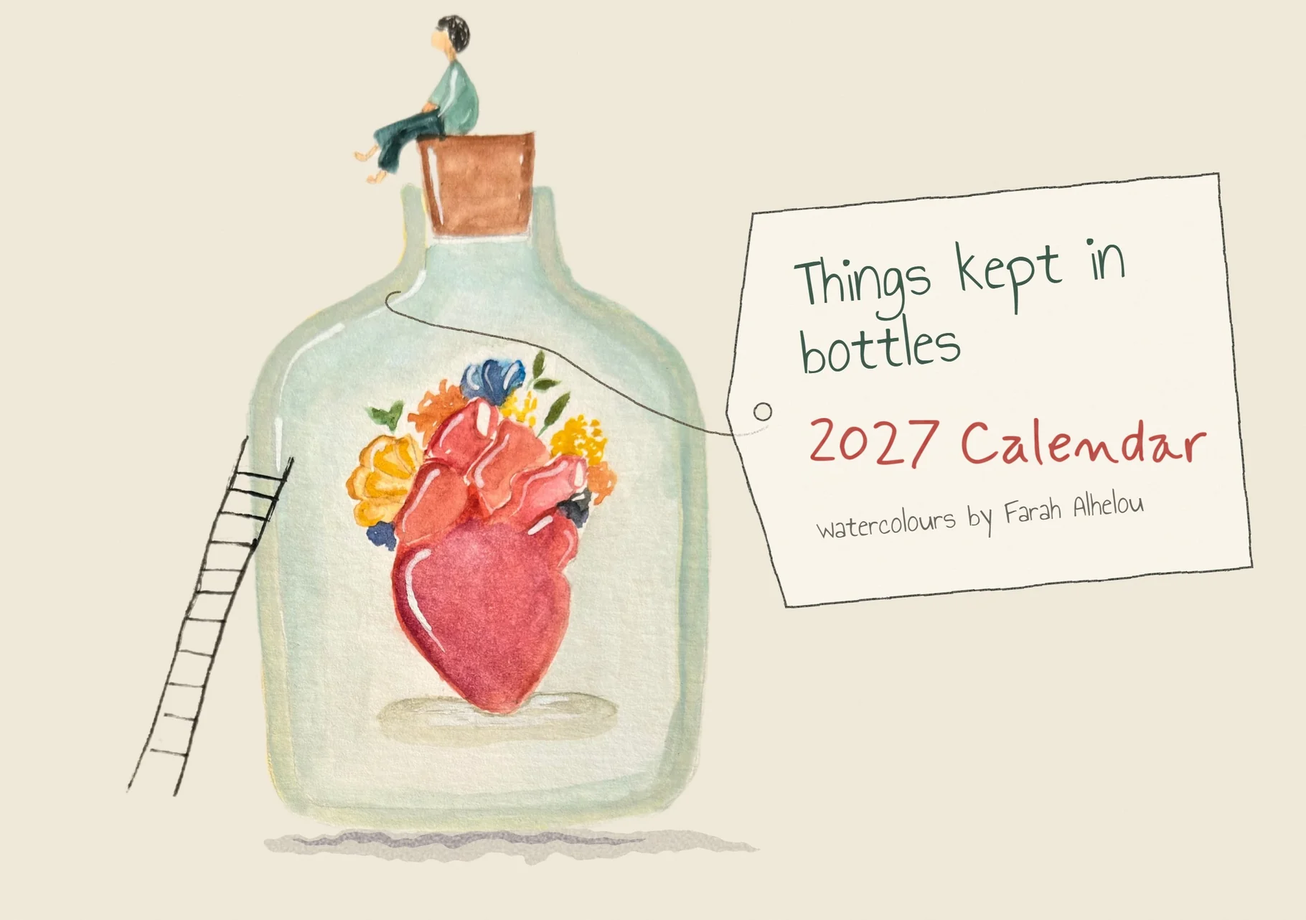
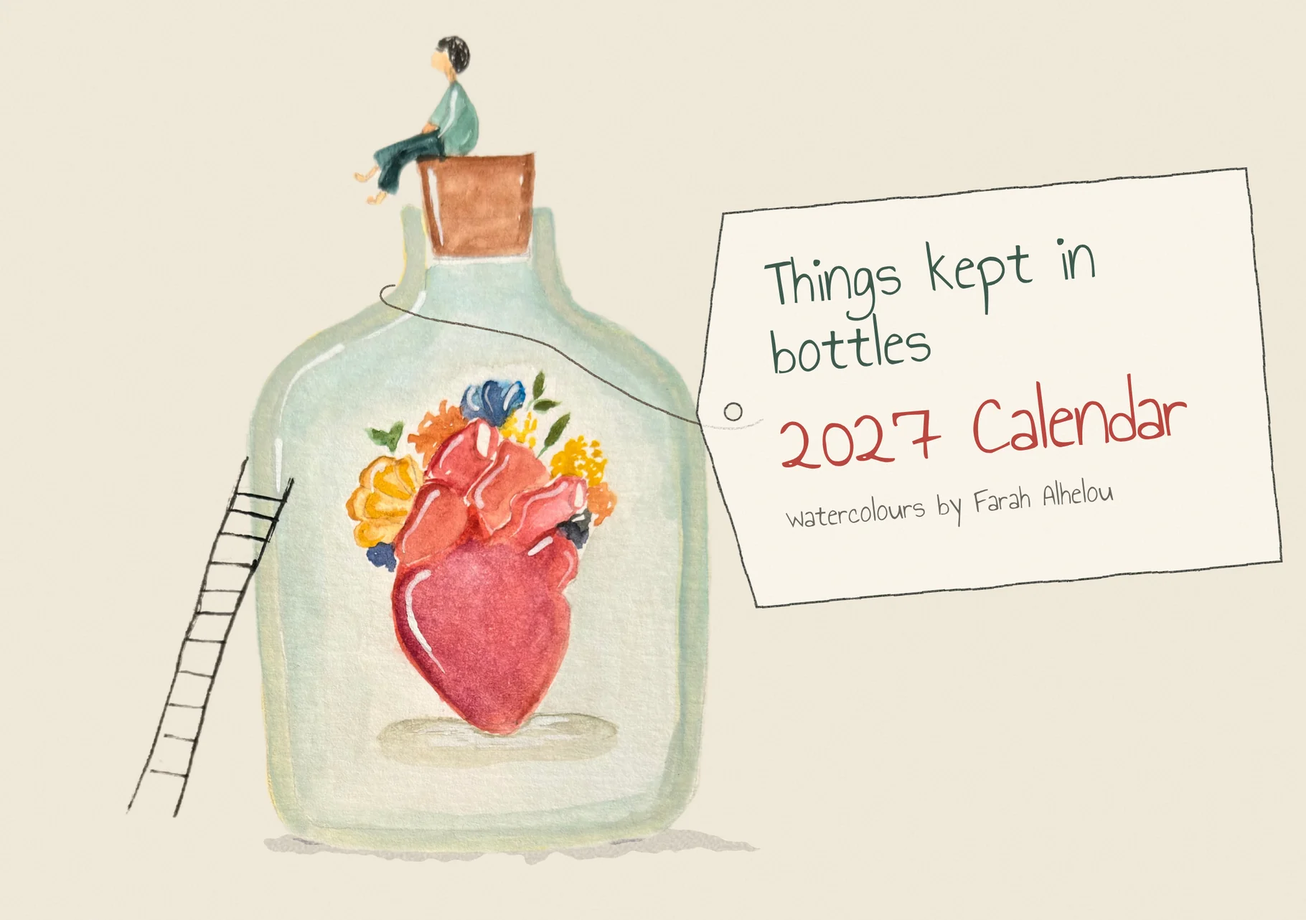
Calendar: all twelve months from the owner's calendar, cover reads 2027 Calendar; site full width
Claude-Session: https://claude.ai/code/session_011WuUMkvb8t9MEEabS5wD9n

diff --git a/web/assets/js/catalog.js b/web/assets/js/catalog.js
@@ -69,7 +69,7 @@ window.MG_DEFAULT = {
     ['sticker', 'pflower', 'Big Flower', 'الزهرة الكبيرة', 'round'],
     ['sticker', 'pmoonsleep', 'Moon Sleeper', 'نائمة على القمر', 'round']
   ].map(function (x) { return { kind: x[0], id: x[1], title_en: x[2], title_ar: x[3], extra: x[4] ? { shape: x[4] } : {} }; }),
-  /* the 2027 calendar, "Things kept in bottles": the pages Farah has finished (add a month once its PDF is in assets as c27-MM) */
+  /* the 2027 calendar, "Things kept in bottles": the cover and all twelve months (assets c27-MM*, rendered from the owner's calendar artifact) */
   calendar: {
     id: 'calendar-2027', title: ['Things kept in bottles, 2027', 'أشياء نحفظها في قوارير، 2027'],
     months: ['January', 'February', 'March', 'April', 'May', 'June', 'July', 'August', 'September', 'October', 'November', 'December'],
@@ -77,12 +77,28 @@ window.MG_DEFAULT = {
     pages: [
       { k: 'c27-00', m: 0, n: ['The cover', 'الغلاف'], s: ['2027', '2027'], q: ['Things kept in bottles, watercolours by Farah Al-Helou.', 'أشياء نحفظها في قوارير، ألوان مائية لفرح الحلو.'],
         d: ['A heart kept in a bottle, flowers growing from it, and someone sitting on the cork to keep watch.', 'قلب محفوظ في قارورة تنبت منه الأزهار، وعلى الفلّينة من يجلس ليحرسه.'] },
+      { k: 'c27-01', m: 1, n: ['January', 'كانون الثاني'], s: ['Winter 2027', 'شتاء 2027'], q: ['Some lights are only found by those who reach.', 'بعض الأضواء لا يجدها إلا من يمدّ يده إليها.'],
+        d: ['A girl in a red coat reaches up to a single star inside a bottle full of night.', 'فتاة بمعطف أحمر تمدّ يدها إلى نجمة واحدة داخل قارورة من ليل.'] },
+      { k: 'c27-02', m: 2, n: ['February', 'شباط'], s: ['Winter 2027', 'شتاء 2027'], q: ['Everything that grows begins somewhere unseen.', 'كل ما ينمو يبدأ في مكانٍ لا يُرى.'],
+        d: ['A heart made of roots in a round bottle, and a small tree in blossom growing out of it.', 'قلب من جذور في قارورة مستديرة، تنبت منه شجرة صغيرة مزهرة.'] },
+      { k: 'c27-03', m: 3, n: ['March', 'آذار'], s: ['Spring 2027', 'ربيع 2027'], q: ['Slowness is also a way of arriving.', 'البطء أيضًا طريقة للوصول.'],
+        d: ['A snail with a spiral shell carries a single red flower up through a green bottle.', 'حلزون بصدفة لولبية يحمل زهرة حمراء واحدة في قارورة خضراء.'] },
+      { k: 'c27-04', m: 4, n: ['April', 'نيسان'], s: ['Spring 2027', 'ربيع 2027'], q: ['What we tend in silence learns to bloom.', 'ما نرعاه بصمت يتعلّم أن يزهر.'],
+        d: ['A small garden of spring flowers kept in a bottle, with a paper tag tied to its neck.', 'حديقة صغيرة من أزهار الربيع في قارورة، وعلى عنقها بطاقة ورقية.'] },
       { k: 'c27-05', m: 5, n: ['May', 'أيار'], s: ['Spring 2027', 'ربيع 2027'], q: ['We carry whole worlds no one else can see.', 'نحمل عوالم كاملة لا يراها أحد سوانا.'],
         d: ['A girl sits on a small green planet inside a bottle of night, with the stars only she can see.', 'فتاة تجلس على كوكب أخضر صغير داخل قارورة من ليل، ومعها نجوم لا يراها سواها.'] },
+      { k: 'c27-06', m: 6, n: ['June', 'حزيران'], s: ['Summer 2027', 'صيف 2027'], q: ['Keep a little light for the days that forget.', 'احتفظوا بقليل من الضوء للأيام التي تنسى.'],
+        d: ['A smiling sun kept in a yellow bottle, its light spilling over the paper.', 'شمس مبتسمة محفوظة في قارورة صفراء، ينسكب ضوؤها على الورق.'] },
+      { k: 'c27-07', m: 7, n: ['July', 'تموز'], s: ['Summer 2027', 'صيف 2027'], q: ['Home is not a place, it is what we carry.', 'البيت ليس مكانًا، بل ما نحمله معنا.'],
+        d: ['A whale swims inside the bottle with a small town of houses on its back.', 'حوت يسبح داخل القارورة وعلى ظهره بلدة صغيرة من البيوت.'] },
       { k: 'c27-08', m: 8, n: ['August', 'آب'], s: ['Summer 2027', 'صيف 2027'], q: ['To leave is also to believe in somewhere.', 'أن نرحل يعني أيضًا أن نؤمن بمكانٍ ما.'],
         d: ['A ship on a small sea inside the bottle, and a tree growing out of its neck toward a bird that has just left.', 'سفينة على بحر صغير داخل القارورة، وشجرة تنمو من عنقها نحو طائر غادر للتوّ.'] },
       { k: 'c27-09', m: 9, n: ['September', 'أيلول'], s: ['Autumn 2027', 'خريف 2027'], q: ['Even the sun bows; looking up is a choice.', 'حتى الشمس تنحني، والنظر إلى الأعلى اختيار.'],
         d: ['A sunflower hangs upside down from the cork; a boy with his school bag stands below and looks up at it.', 'زهرة شمس معلّقة بالمقلوب من الفلّينة، وتحتها ولد بحقيبته المدرسية ينظر إليها.'] },
+      { k: 'c27-10', m: 10, n: ['October', 'تشرين الأول'], s: ['Autumn 2027', 'خريف 2027'], q: ['Some words are kept, not sent.', 'بعض الكلمات تُحفظ ولا تُرسل.'],
+        d: ['A letter sealed in a bottle among autumn leaves, never posted.', 'رسالة مختومة في قارورة بين أوراق الخريف، لم تُرسل قط.'] },
+      { k: 'c27-11', m: 11, n: ['November', 'تشرين الثاني'], s: ['Autumn 2027', 'خريف 2027'], q: ['Rest is not stopping, it is gathering.', 'الراحة ليست توقفًا، بل جمعٌ للقوة.'],
+        d: ['A girl curled up inside a sea shell in a round green bottle, resting.', 'فتاة تستريح متكوّرة داخل صدفة بحرية في قارورة خضراء مستديرة.'] },
       { k: 'c27-12', m: 12, n: ['December', 'كانون الأول'], s: ['Winter 2027', 'شتاء 2027'], q: ['Every road we take is a way back to ourselves.', 'كل طريق نسلكه طريقُ عودةٍ إلى أنفسنا.'],
         d: ['A heart-shaped sun over a small house, and a yellow road that winds back to it through green hills.', 'شمس على شكل قلب فوق بيت صغير، وطريق أصفر يعود إليه بين التلال الخضراء.'] }
     ]

diff --git a/web/calendar.html b/web/calendar.html
@@ -19,10 +19,10 @@
 <link rel="preload" href="fonts/geist-mono-latin-500-normal.woff2" as="font" type="font/woff2" crossorigin>
 <link rel="stylesheet" href="fonts/all.css">
 <link rel="stylesheet" href="fonts/figtree.css">
-<link rel="stylesheet" href="assets/css/site.css?v=37d4566a">
-<link rel="stylesheet" href="assets/css/show.css?v=37d4566a">
-<link rel="stylesheet" href="assets/css/calendar.css?v=37d4566a">
-<script src="assets/js/boot.js?v=37d4566a"></script>
+<link rel="stylesheet" href="assets/css/site.css?v=a01789b7">
+<link rel="stylesheet" href="assets/css/show.css?v=a01789b7">
+<link rel="stylesheet" href="assets/css/calendar.css?v=a01789b7">
+<script src="assets/js/boot.js?v=a01789b7"></script>
 </head>
 <body>
 <a class="skip" href="#main" data-ar="انتقلوا إلى المحتوى">Skip to content</a>
@@ -121,11 +121,11 @@
   <div class="ft-z"><small data-ar="© 2026 ماس آند غراس، غزة، فلسطين">© 2026 Mass &amp; Grass, Gaza, Palestine</small><div class="soc" id="soc"></div></div>
 </footer>
 
-<script src="assets/js/catalog.js?v=37d4566a" defer></script>
-<script src="assets/js/art.js?v=37d4566a" defer></script>
-<script src="assets/js/core.js?v=37d4566a" defer></script>
-<script src="assets/js/mock.js?v=37d4566a" defer></script>
-<script src="assets/js/show.js?v=37d4566a" defer></script>
-<script src="assets/js/calendar.js?v=37d4566a" defer></script>
+<script src="assets/js/catalog.js?v=a01789b7" defer></script>
+<script src="assets/js/art.js?v=a01789b7" defer></script>
+<script src="assets/js/core.js?v=a01789b7" defer></script>
+<script src="assets/js/mock.js?v=a01789b7" defer></script>
+<script src="assets/js/show.js?v=a01789b7" defer></script>
+<script src="assets/js/calendar.js?v=a01789b7" defer></script>
 </body>
 </html>

diff --git a/web/shop.html b/web/shop.html
@@ -19,10 +19,10 @@
 <link rel="preload" href="fonts/geist-mono-latin-500-normal.woff2" as="font" type="font/woff2" crossorigin>
 <link rel="stylesheet" href="fonts/all.css">
 <link rel="stylesheet" href="fonts/figtree.css">
-<link rel="stylesheet" href="assets/css/site.css?v=37d4566a">
-<link rel="stylesheet" href="assets/css/tiles.css?v=37d4566a">
-<link rel="stylesheet" href="assets/css/shop.css?v=37d4566a">
-<script src="assets/js/boot.js?v=37d4566a"></script>
+<link rel="stylesheet" href="assets/css/site.css?v=a01789b7">
+<link rel="stylesheet" href="assets/css/tiles.css?v=a01789b7">
+<link rel="stylesheet" href="assets/css/shop.css?v=a01789b7">
+<script src="assets/js/boot.js?v=a01789b7"></script>
 </head>
 <body>
 <a class="skip" href="#main" data-ar="انتقلوا إلى المحتوى">Skip to content</a>
@@ -82,10 +82,10 @@
   <div class="ft-z"><small data-ar="© 2026 ماس آند غراس، غزة، فلسطين">© 2026 Mass &amp; Grass, Gaza, Palestine</small><div class="soc" id="soc"></div></div>
 </footer>
 
-<script src="assets/js/catalog.js?v=37d4566a" defer></script>
-<script src="assets/js/art.js?v=37d4566a" defer></script>
-<script src="assets/js/core.js?v=37d4566a" defer></script>
-<script src="assets/js/mock.js?v=37d4566a" defer></script>
-<script src="assets/js/shop.js?v=37d4566a" defer></script>
+<script src="assets/js/catalog.js?v=a01789b7" defer></script>
+<script src="assets/js/art.js?v=a01789b7" defer></script>
+<script src="assets/js/core.js?v=a01789b7" defer></script>
+<script src="assets/js/mock.js?v=a01789b7" defer></script>
+<script src="assets/js/shop.js?v=a01789b7" defer></script>
 </body>
 </html>

diff --git a/web/paintings.html b/web/paintings.html
@@ -19,9 +19,9 @@
 <link rel="preload" href="fonts/geist-mono-latin-500-normal.woff2" as="font" type="font/woff2" crossorigin>
 <link rel="stylesheet" href="fonts/all.css">
 <link rel="stylesheet" href="fonts/figtree.css">
-<link rel="stylesheet" href="assets/css/site.css?v=37d4566a">
-<link rel="stylesheet" href="assets/css/paintings.css?v=37d4566a">
-<script src="assets/js/boot.js?v=37d4566a"></script>
+<link rel="stylesheet" href="assets/css/site.css?v=a01789b7">
+<link rel="stylesheet" href="assets/css/paintings.css?v=a01789b7">
+<script src="assets/js/boot.js?v=a01789b7"></script>
 </head>
 <body>
 <a class="skip" href="#main" data-ar="انتقلوا إلى المحتوى">Skip to content</a>
@@ -103,10 +103,10 @@
   <div class="ft-z"><small data-ar="© 2026 ماس آند غراس، غزة، فلسطين">© 2026 Mass &amp; Grass, Gaza, Palestine</small><div class="soc" id="soc"></div></div>
 </footer>
 
-<script src="assets/js/catalog.js?v=37d4566a" defer></script>
-<script src="assets/js/art.js?v=37d4566a" defer></script>
-<script src="assets/js/core.js?v=37d4566a" defer></script>
-<script src="assets/js/mock.js?v=37d4566a" defer></script>
-<script src="assets/js/paintings.js?v=37d4566a" defer></script>
+<script src="assets/js/catalog.js?v=a01789b7" defer></script>
+<script src="assets/js/art.js?v=a01789b7" defer></script>
+<script src="assets/js/core.js?v=a01789b7" defer></script>
+<script src="assets/js/mock.js?v=a01789b7" defer></script>
+<script src="assets/js/paintings.js?v=a01789b7" defer></script>
 </body>
 </html>

diff --git a/web/postcards.html b/web/postcards.html
@@ -19,9 +19,9 @@
 <link rel="preload" href="fonts/geist-mono-latin-500-normal.woff2" as="font" type="font/woff2" crossorigin>
 <link rel="stylesheet" href="fonts/all.css">
 <link rel="stylesheet" href="fonts/figtree.css">
-<link rel="stylesheet" href="assets/css/site.css?v=37d4566a">
-<link rel="stylesheet" href="assets/css/postcards.css?v=37d4566a">
-<script src="assets/js/boot.js?v=37d4566a"></script>
+<link rel="stylesheet" href="assets/css/site.css?v=a01789b7">
+<link rel="stylesheet" href="assets/css/postcards.css?v=a01789b7">
+<script src="assets/js/boot.js?v=a01789b7"></script>
 </head>
 <body>
 <a class="skip" href="#main" data-ar="انتقلوا إلى المحتوى">Skip to content</a>
@@ -153,10 +153,10 @@
   <div class="ft-z"><small data-ar="© 2026 ماس آند غراس، غزة، فلسطين">© 2026 Mass &amp; Grass, Gaza, Palestine</small><div class="soc" id="soc"></div></div>
 </footer>
 
-<script src="assets/js/catalog.js?v=37d4566a" defer></script>
-<script src="assets/js/art.js?v=37d4566a" defer></script>
-<script src="assets/js/core.js?v=37d4566a" defer></script>
-<script src="assets/js/mock.js?v=37d4566a" defer></script>
-<script src="assets/js/postcards.js?v=37d4566a" defer></script>
+<script src="assets/js/catalog.js?v=a01789b7" defer></script>
+<script src="assets/js/art.js?v=a01789b7" defer></script>
+<script src="assets/js/core.js?v=a01789b7" defer></script>
+<script src="assets/js/mock.js?v=a01789b7" defer></script>
+<script src="assets/js/postcards.js?v=a01789b7" defer></script>
 </body>
 </html>

diff --git a/web/stickers.html b/web/stickers.html
@@ -19,9 +19,9 @@
 <link rel="preload" href="fonts/geist-mono-latin-500-normal.woff2" as="font" type="font/woff2" crossorigin>
 <link rel="stylesheet" href="fonts/all.css">
 <link rel="stylesheet" href="fonts/figtree.css">
-<link rel="stylesheet" href="assets/css/site.css?v=37d4566a">
-<link rel="stylesheet" href="assets/css/stickers.css?v=37d4566a">
-<script src="assets/js/boot.js?v=37d4566a"></script>
+<link rel="stylesheet" href="assets/css/site.css?v=a01789b7">
+<link rel="stylesheet" href="assets/css/stickers.css?v=a01789b7">
+<script src="assets/js/boot.js?v=a01789b7"></script>
 </head>
 <body>
 <a class="skip" href="#main" data-ar="انتقلوا إلى المحتوى">Skip to content</a>
@@ -109,10 +109,10 @@
   <div class="ft-z"><small data-ar="© 2026 ماس آند غراس، غزة، فلسطين">© 2026 Mass &amp; Grass, Gaza, Palestine</small><div class="soc" id="soc"></div></div>
 </footer>
 
-<script src="assets/js/catalog.js?v=37d4566a" defer></script>
-<script src="assets/js/art.js?v=37d4566a" defer></script>
-<script src="assets/js/core.js?v=37d4566a" defer></script>
-<script src="assets/js/mock.js?v=37d4566a" defer></script>
-<script src="assets/js/stickers.js?v=37d4566a" defer></script>
+<script src="assets/js/catalog.js?v=a01789b7" defer></script>
+<script src="assets/js/art.js?v=a01789b7" defer></script>
+<script src="assets/js/core.js?v=a01789b7" defer></script>
+<script src="assets/js/mock.js?v=a01789b7" defer></script>
+<script src="assets/js/stickers.js?v=a01789b7" defer></script>
 </body>
 </html>

diff --git a/web/checkout.html b/web/checkout.html
@@ -20,9 +20,9 @@
 <link rel="preload" href="fonts/geist-mono-latin-500-normal.woff2" as="font" type="font/woff2" crossorigin>
 <link rel="stylesheet" href="fonts/all.css">
 <link rel="stylesheet" href="fonts/figtree.css">
-<link rel="stylesheet" href="assets/css/site.css?v=37d4566a">
-<link rel="stylesheet" href="assets/css/checkout.css?v=37d4566a">
-<script src="assets/js/boot.js?v=37d4566a"></script>
+<link rel="stylesheet" href="assets/css/site.css?v=a01789b7">
+<link rel="stylesheet" href="assets/css/checkout.css?v=a01789b7">
+<script src="assets/js/boot.js?v=a01789b7"></script>
 </head>
 <body>
 <a class="skip" href="#main" data-ar="انتقلوا إلى المحتوى">Skip to content</a>
@@ -81,10 +81,10 @@
   <div class="ft-z"><small data-ar="© 2026 ماس آند غراس، غزة، فلسطين">© 2026 Mass &amp; Grass, Gaza, Palestine</small><div class="soc" id="soc"></div></div>
 </footer>
 
-<script src="assets/js/catalog.js?v=37d4566a" defer></script>
-<script src="assets/js/art.js?v=37d4566a" defer></script>
-<script src="assets/js/core.js?v=37d4566a" defer></script>
-<script src="assets/js/mock.js?v=37d4566a" defer></script>
-<script src="assets/js/checkout.js?v=37d4566a" defer></script>
+<script src="assets/js/catalog.js?v=a01789b7" defer></script>
+<script src="assets/js/art.js?v=a01789b7" defer></script>
+<script src="assets/js/core.js?v=a01789b7" defer></script>
+<script src="assets/js/mock.js?v=a01789b7" defer></script>
+<script src="assets/js/checkout.js?v=a01789b7" defer></script>
 </body>
 </html>

diff --git a/web/account.html b/web/account.html
@@ -20,9 +20,9 @@
 <link rel="preload" href="fonts/geist-mono-latin-500-normal.woff2" as="font" type="font/woff2" crossorigin>
 <link rel="stylesheet" href="fonts/all.css">
 <link rel="stylesheet" href="fonts/figtree.css">
-<link rel="stylesheet" href="assets/css/site.css?v=37d4566a">
-<link rel="stylesheet" href="assets/css/account.css?v=37d4566a">
-<script src="assets/js/boot.js?v=37d4566a"></script>
+<link rel="stylesheet" href="assets/css/site.css?v=a01789b7">
+<link rel="stylesheet" href="assets/css/account.css?v=a01789b7">
+<script src="assets/js/boot.js?v=a01789b7"></script>
 </head>
 <body>
 <a class="skip" href="#main" data-ar="انتقلوا إلى المحتوى">Skip to content</a>
@@ -86,10 +86,10 @@
   <div class="ft-z"><small data-ar="© 2026 ماس آند غراس، غزة، فلسطين">© 2026 Mass &amp; Grass, Gaza, Palestine</small><div class="soc" id="soc"></div></div>
 </footer>
 
-<script src="assets/js/catalog.js?v=37d4566a" defer></script>
-<script src="assets/js/art.js?v=37d4566a" defer></script>
-<script src="assets/js/core.js?v=37d4566a" defer></script>
-<script src="assets/js/mock.js?v=37d4566a" defer></script>
-<script src="assets/js/account.js?v=37d4566a" defer></script>
+<script src="assets/js/catalog.js?v=a01789b7" defer></script>
+<script src="assets/js/art.js?v=a01789b7" defer></script>
+<script src="assets/js/core.js?v=a01789b7" defer></script>
+<script src="assets/js/mock.js?v=a01789b7" defer></script>
+<script src="assets/js/account.js?v=a01789b7" defer></script>
 </body>
 </html>

diff --git a/web/profile.html b/web/profile.html
@@ -20,9 +20,9 @@
 <link rel="preload" href="fonts/geist-mono-latin-500-normal.woff2" as="font" type="font/woff2" crossorigin>
 <link rel="stylesheet" href="fonts/all.css">
 <link rel="stylesheet" href="fonts/figtree.css">
-<link rel="stylesheet" href="assets/css/site.css?v=37d4566a">
-<link rel="stylesheet" href="assets/css/profile.css?v=37d4566a">
-<script src="assets/js/boot.js?v=37d4566a"></script>
+<link rel="stylesheet" href="assets/css/site.css?v=a01789b7">
+<link rel="stylesheet" href="assets/css/profile.css?v=a01789b7">
+<script src="assets/js/boot.js?v=a01789b7"></script>
 </head>
 <body>
 <a class="skip" href="#main" data-ar="انتقلوا إلى المحتوى">Skip to content</a>
@@ -88,10 +88,10 @@
   <div class="ft-z"><small data-ar="© 2026 ماس آند غراس، غزة، فلسطين">© 2026 Mass &amp; Grass, Gaza, Palestine</small><div class="soc" id="soc"></div></div>
 </footer>
 
-<script src="assets/js/catalog.js?v=37d4566a" defer></script>
-<script src="assets/js/art.js?v=37d4566a" defer></script>
-<script src="assets/js/core.js?v=37d4566a" defer></script>
-<script src="assets/js/mock.js?v=37d4566a" defer></script>
-<script src="assets/js/profile.js?v=37d4566a" defer></script>
+<script src="assets/js/catalog.js?v=a01789b7" defer></script>
+<script src="assets/js/art.js?v=a01789b7" defer></script>
+<script src="assets/js/core.js?v=a01789b7" defer></script>
+<script src="assets/js/mock.js?v=a01789b7" defer></script>
+<script src="assets/js/profile.js?v=a01789b7" defer></script>
 </body>
 </html>

diff --git a/web/story.html b/web/story.html
@@ -19,9 +19,9 @@
 <link rel="preload" href="fonts/geist-mono-latin-500-normal.woff2" as="font" type="font/woff2" crossorigin>
 <link rel="stylesheet" href="fonts/all.css">
 <link rel="stylesheet" href="fonts/figtree.css">
-<link rel="stylesheet" href="assets/css/site.css?v=37d4566a">
-<link rel="stylesheet" href="assets/css/story.css?v=37d4566a">
-<script src="assets/js/boot.js?v=37d4566a"></script>
+<link rel="stylesheet" href="assets/css/site.css?v=a01789b7">
+<link rel="stylesheet" href="assets/css/story.css?v=a01789b7">
+<script src="assets/js/boot.js?v=a01789b7"></script>
 </head>
 <body>
 <a class="skip" href="#main" data-ar="انتقلوا إلى المحتوى">Skip to content</a>
@@ -157,10 +157,10 @@
   <div class="ft-z"><small data-ar="© 2026 ماس آند غراس، غزة، فلسطين">© 2026 Mass &amp; Grass, Gaza, Palestine</small><div class="soc" id="soc"></div></div>
 </footer>
 
-<script src="assets/js/catalog.js?v=37d4566a" defer></script>
-<script src="assets/js/art.js?v=37d4566a" defer></script>
-<script src="assets/js/core.js?v=37d4566a" defer></script>
-<script src="assets/js/mock.js?v=37d4566a" defer></script>
-<script src="assets/js/story.js?v=37d4566a" defer></script>
+<script src="assets/js/catalog.js?v=a01789b7" defer></script>
+<script src="assets/js/art.js?v=a01789b7" defer></script>
+<script src="assets/js/core.js?v=a01789b7" defer></script>
+<script src="assets/js/mock.js?v=a01789b7" defer></script>
+<script src="assets/js/story.js?v=a01789b7" defer></script>
 </body>
 </html>

diff --git a/web/terms.html b/web/terms.html
@@ -19,9 +19,9 @@
 <link rel="preload" href="fonts/geist-mono-latin-500-normal.woff2" as="font" type="font/woff2" crossorigin>
 <link rel="stylesheet" href="fonts/all.css">
 <link rel="stylesheet" href="fonts/figtree.css">
-<link rel="stylesheet" href="assets/css/site.css?v=37d4566a">
-<link rel="stylesheet" href="assets/css/terms.css?v=37d4566a">
-<script src="assets/js/boot.js?v=37d4566a"></script>
+<link rel="stylesheet" href="assets/css/site.css?v=a01789b7">
+<link rel="stylesheet" href="assets/css/terms.css?v=a01789b7">
+<script src="assets/js/boot.js?v=a01789b7"></script>
 </head>
 <body>
 <a class="skip" href="#main" data-ar="انتقلوا إلى المحتوى">Skip to content</a>
@@ -79,10 +79,10 @@
   <div class="ft-z"><small data-ar="© 2026 ماس آند غراس، غزة، فلسطين">© 2026 Mass &amp; Grass, Gaza, Palestine</small><div class="soc" id="soc"></div></div>
 </footer>
 
-<script src="assets/js/catalog.js?v=37d4566a" defer></script>
-<script src="assets/js/art.js?v=37d4566a" defer></script>
-<script src="assets/js/core.js?v=37d4566a" defer></script>
-<script src="assets/js/mock.js?v=37d4566a" defer></script>
-<script src="assets/js/terms.js?v=37d4566a" defer></script>
+<script src="assets/js/catalog.js?v=a01789b7" defer></script>
+<script src="assets/js/art.js?v=a01789b7" defer></script>
+<script src="assets/js/core.js?v=a01789b7" defer></script>
+<script src="assets/js/mock.js?v=a01789b7" defer></script>
+<script src="assets/js/terms.js?v=a01789b7" defer></script>
 </body>
 </html>

diff --git a/web/index.html b/web/index.html
@@ -19,9 +19,9 @@
 <link rel="preload" href="fonts/geist-mono-latin-500-normal.woff2" as="font" type="font/woff2" crossorigin>
 <link rel="stylesheet" href="fonts/all.css">
 <link rel="stylesheet" href="fonts/figtree.css">
-<link rel="stylesheet" href="assets/css/site.css?v=37d4566a">
-<link rel="stylesheet" href="assets/css/home.css?v=37d4566a">
-<script src="assets/js/boot.js?v=37d4566a"></script>
+<link rel="stylesheet" href="assets/css/site.css?v=a01789b7">
+<link rel="stylesheet" href="assets/css/home.css?v=a01789b7">
+<script src="assets/js/boot.js?v=a01789b7"></script>
 </head>
 <body>
 <a class="skip" href="#main" data-ar="انتقلوا إلى المحتوى">Skip to content</a>
@@ -144,10 +144,10 @@
   <div class="ft-z"><small data-ar="© 2026 ماس آند غراس، غزة، فلسطين">© 2026 Mass &amp; Grass, Gaza, Palestine</small><div class="soc" id="soc"></div></div>
 </footer>
 
-<script src="assets/js/catalog.js?v=37d4566a" defer></script>
-<script src="assets/js/art.js?v=37d4566a" defer></script>
-<script src="assets/js/core.js?v=37d4566a" defer></script>
-<script src="assets/js/mock.js?v=37d4566a" defer></script>
-<script src="assets/js/home.js?v=37d4566a" defer></script>
+<script src="assets/js/catalog.js?v=a01789b7" defer></script>
+<script src="assets/js/art.js?v=a01789b7" defer></script>
+<script src="assets/js/core.js?v=a01789b7" defer></script>
+<script src="assets/js/mock.js?v=a01789b7" defer></script>
+<script src="assets/js/home.js?v=a01789b7" defer></script>
 </body>
 </html>
